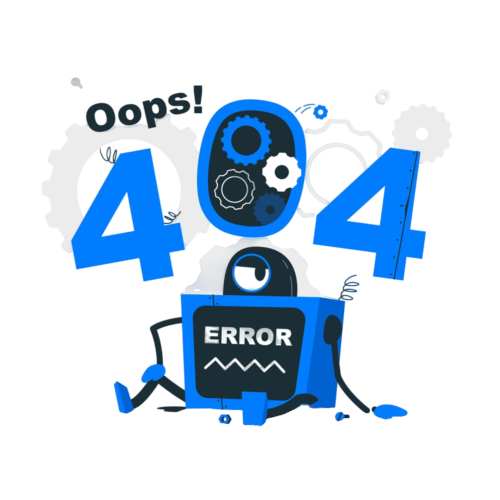
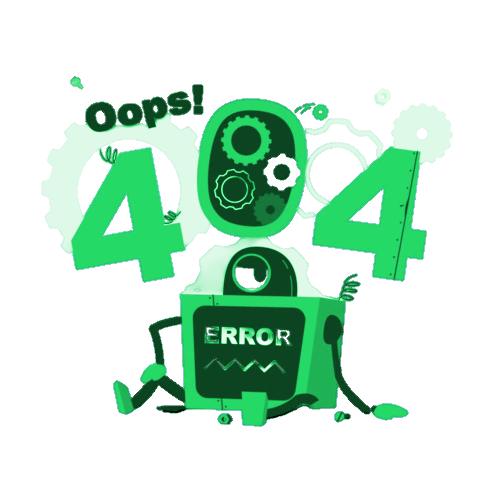
feat: update NotFound page styles to use green color scheme

Changed region(s): [[0.12, 0.15, 0.87, 0.87], [0.12, 0.15, 0.18, 0.18], [0.75, 0.18, 0.78, 0.21]]

diff --git a/src/pages/NotFound/index.jsx b/src/pages/NotFound/index.jsx
@@ -74,15 +74,15 @@ const NotFound = () => {
         >
           <Link
             to="/"
-            className="px-8 py-3 bg-gradient-to-r from-blue-500 to-blue-700 text-white font-medium rounded-lg shadow-md hover:from-blue-600 hover:to-blue-800 transition-all duration-300"
+            className="px-8 py-3 bg-gradient-to-r from-green-500 to-green-700 text-white font-medium rounded-lg shadow-md hover:from-green-600 hover:to-green-800 transition-all duration-300"
           >
             Back to Home
           </Link>
         </motion.div>
       </motion.div>
       <div className="absolute inset-0 -z-10 overflow-hidden">
-        <div className="absolute top-0 left-0 w-96 h-96 bg-blue-200 rounded-full opacity-20 -translate-x-1/2 -translate-y-1/2" />
-        <div className="absolute bottom-0 right-0 w-96 h-96 bg-blue-300 rounded-full opacity-20 translate-x-1/2 translate-y-1/2" />
+        <div className="absolute top-0 left-0 w-96 h-96 bg-green-200 rounded-full opacity-20 -translate-x-1/2 -translate-y-1/2" />
+        <div className="absolute bottom-0 right-0 w-96 h-96 bg-green-300 rounded-full opacity-20 translate-x-1/2 translate-y-1/2" />
       </div>
     </div>
   );
